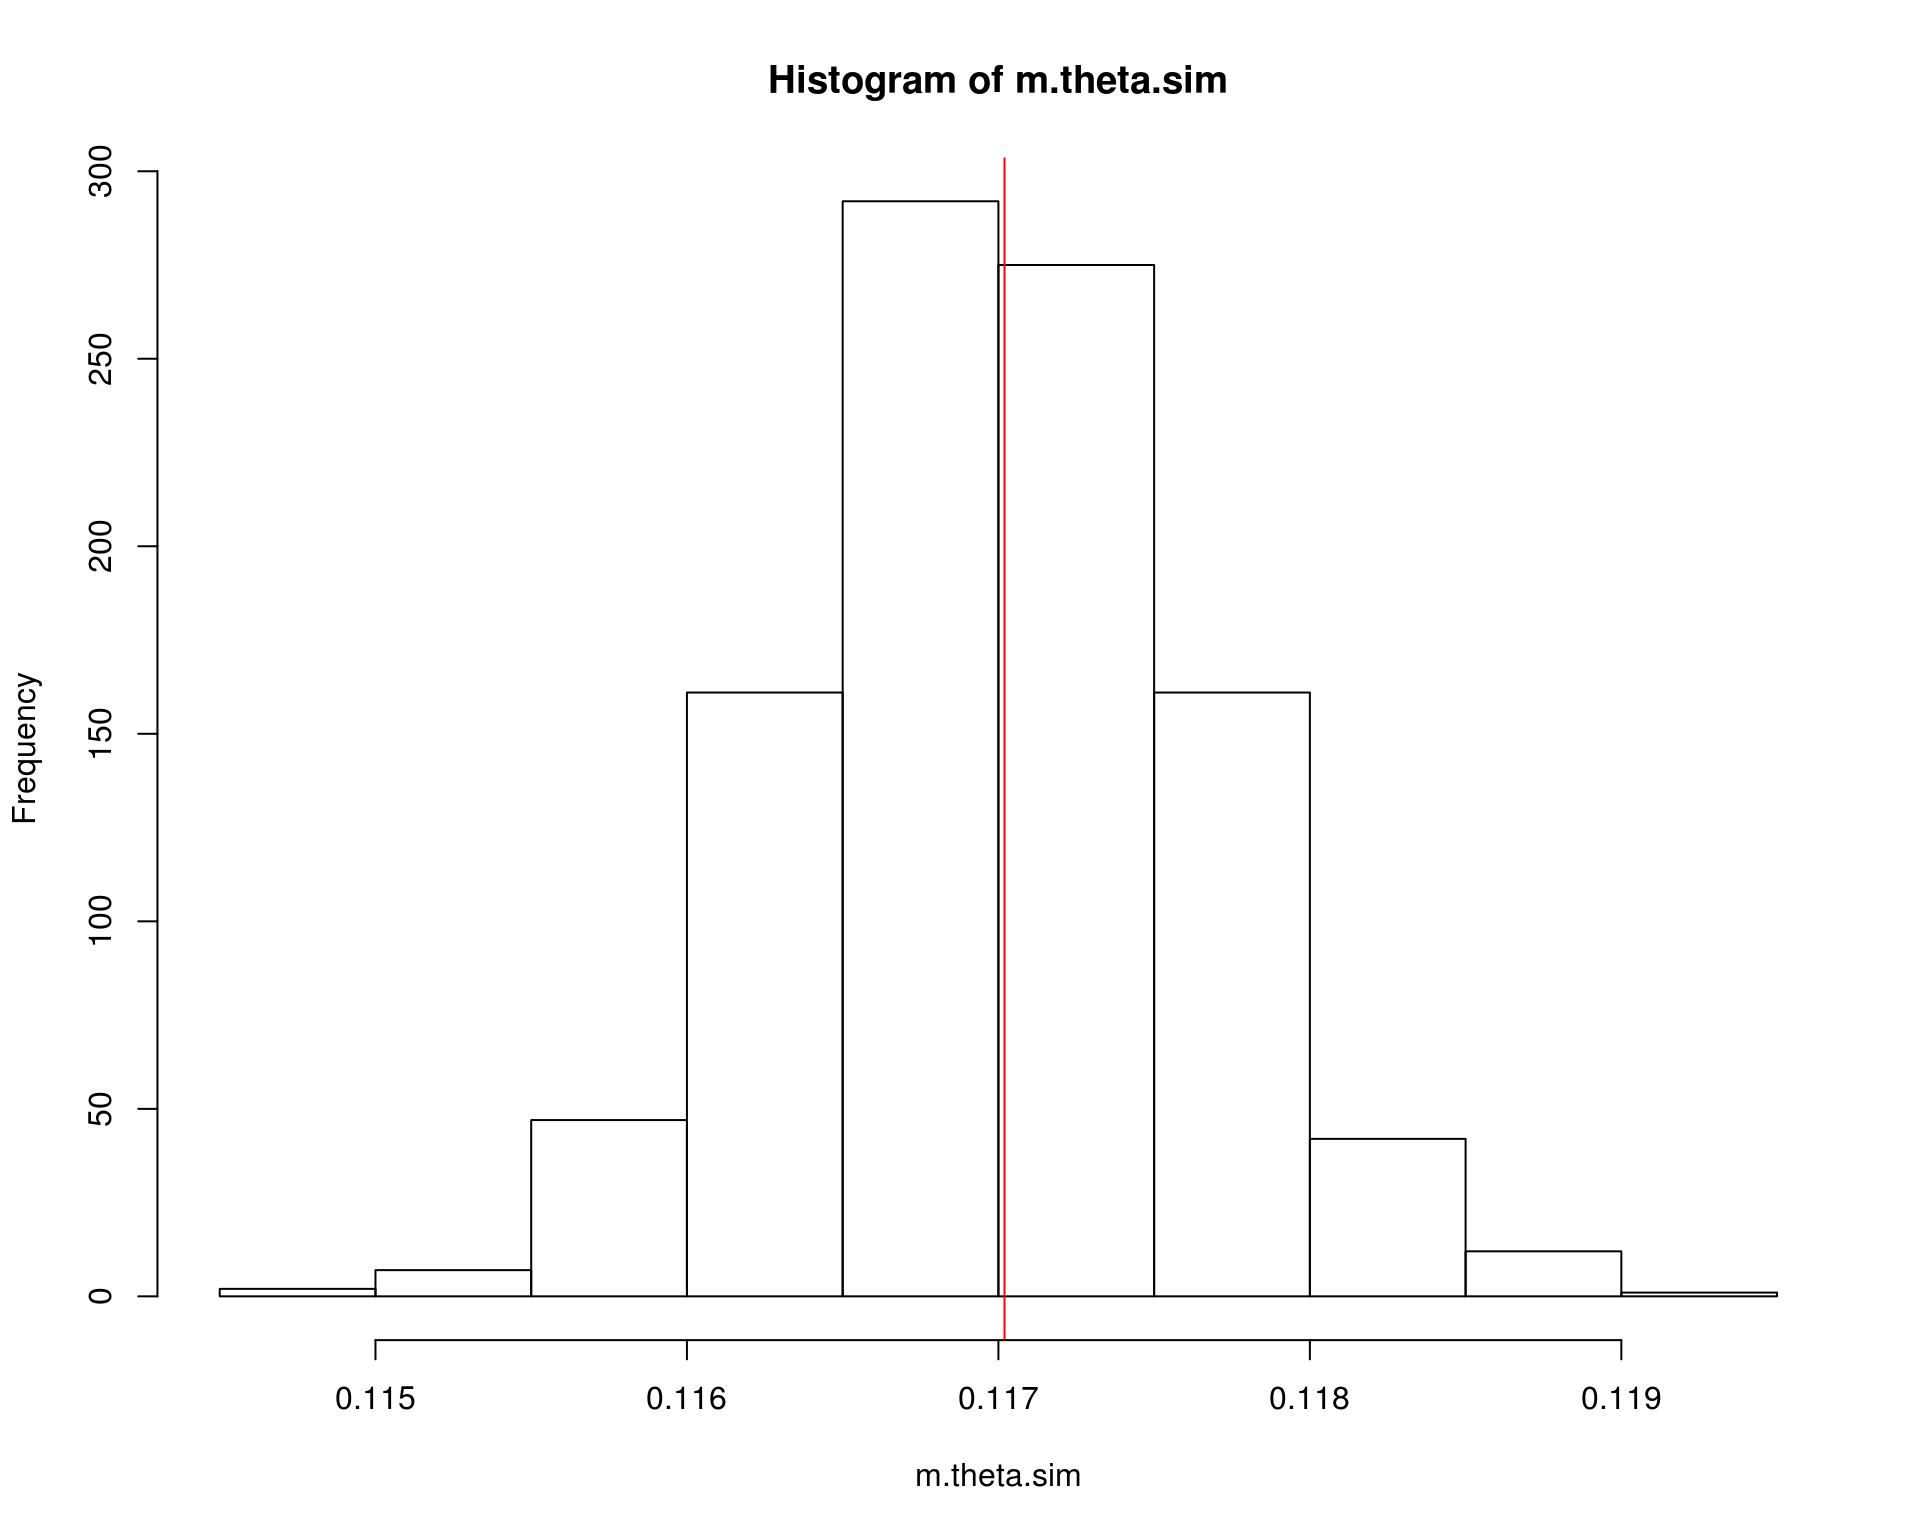
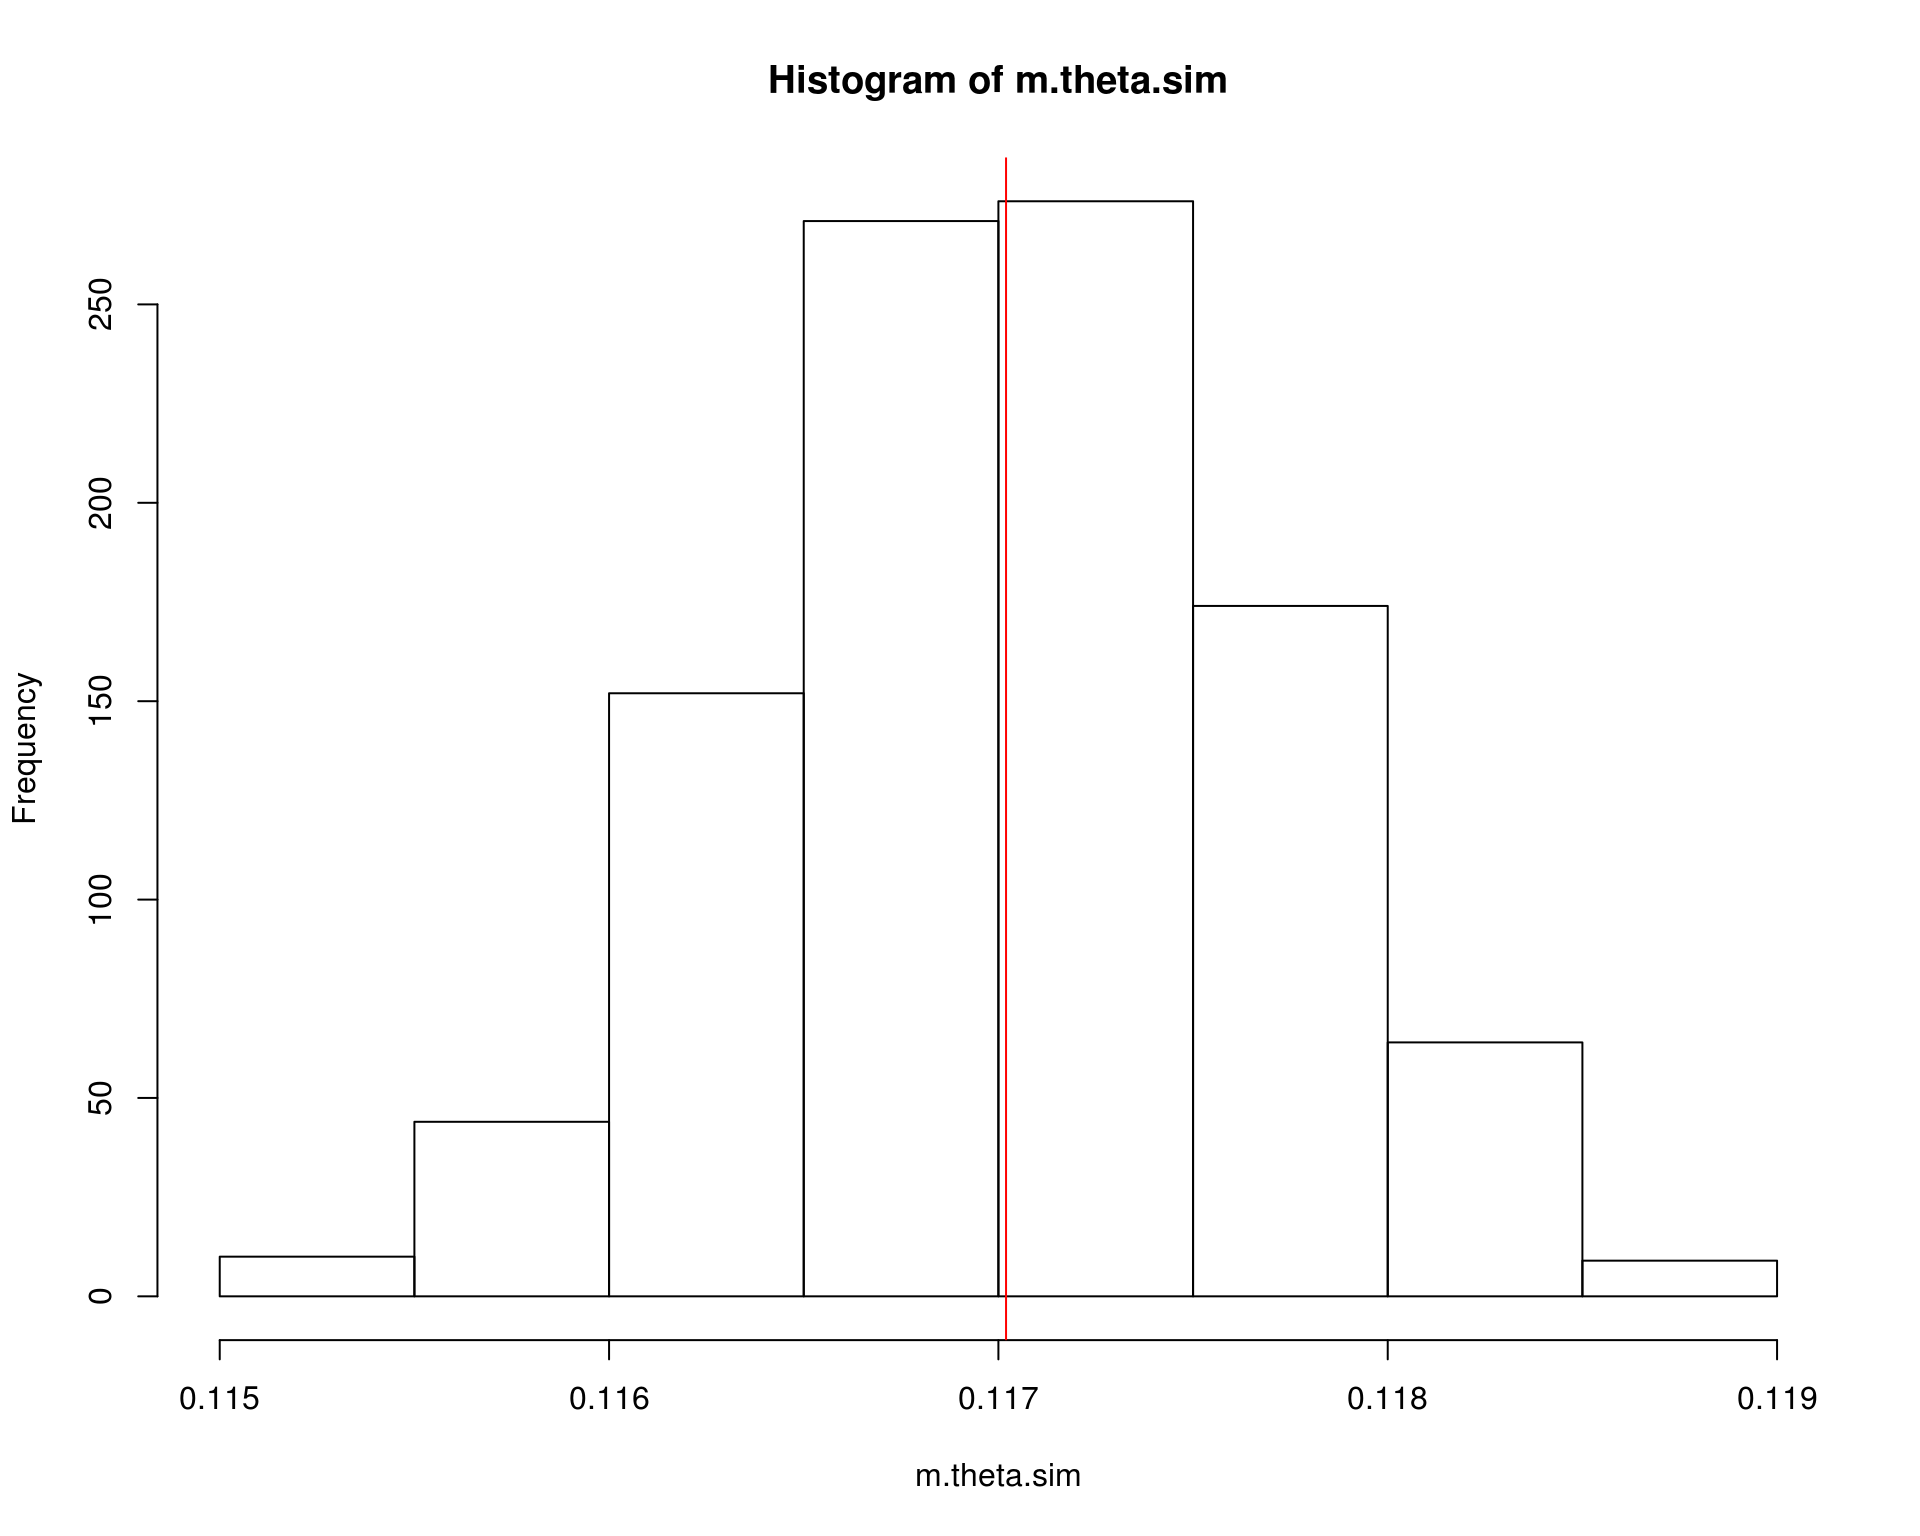
The site is alive.

diff --git a/MC_intro.html b/MC_intro.html
@@ -553,7 +553,7 @@ P(\lim_{n \to \infty} |\bar{X}_n - \mu| &lt; \epsilon) = 1
 <a class="sourceLine" id="cb1-5" title="5">theta.hat &lt;-<span class="st"> </span><span class="kw">exp</span>(<span class="op">-</span>x)</a>
 <a class="sourceLine" id="cb1-6" title="6"><span class="co">## Calcula a média</span></a>
 <a class="sourceLine" id="cb1-7" title="7">(m.theta.hat &lt;-<span class="st"> </span><span class="kw">sum</span>(theta.hat)<span class="op">/</span>m)</a>
-<a class="sourceLine" id="cb1-8" title="8"><span class="co"># [1] 0.6316201</span></a></code></pre></div>
+<a class="sourceLine" id="cb1-8" title="8"><span class="co"># [1] 0.6329482</span></a></code></pre></div>
 <p>Nesse caso, podemos obter a solução analítica e integração numérica no R para comparar as estimativas</p>
 <div class="sourceCode" id="cb2"><pre class="sourceCode r"><code class="sourceCode r"><a class="sourceLine" id="cb2-1" title="1"><span class="co">## Solução analítica</span></a>
 <a class="sourceLine" id="cb2-2" title="2">(theta &lt;-<span class="st"> </span><span class="dv">1</span> <span class="op">-</span><span class="st"> </span><span class="kw">exp</span>(<span class="op">-</span><span class="dv">1</span>))</a>
@@ -593,7 +593,7 @@ P(\lim_{n \to \infty} |\bar{X}_n - \mu| &lt; \epsilon) = 1
 <a class="sourceLine" id="cb3-6" title="6">theta.hat &lt;-<span class="st"> </span><span class="kw">exp</span>(<span class="op">-</span>x)</a>
 <a class="sourceLine" id="cb3-7" title="7"><span class="co">## Calcula a média * (b - a)</span></a>
 <a class="sourceLine" id="cb3-8" title="8">(m.theta.hat &lt;-<span class="st"> </span>(<span class="kw">sum</span>(theta.hat)<span class="op">/</span>m) <span class="op">*</span><span class="st"> </span>(b <span class="op">-</span><span class="st"> </span>a))</a>
-<a class="sourceLine" id="cb3-9" title="9"><span class="co"># [1] 0.1162404</span></a></code></pre></div>
+<a class="sourceLine" id="cb3-9" title="9"><span class="co"># [1] 0.1166628</span></a></code></pre></div>
 <p>Nesse caso, podemos obter a solução analítica e integração numérica no R para comparar as estimativas</p>
 <div class="sourceCode" id="cb4"><pre class="sourceCode r"><code class="sourceCode r"><a class="sourceLine" id="cb4-1" title="1"><span class="co">## Solução analítica</span></a>
 <a class="sourceLine" id="cb4-2" title="2">(theta &lt;-<span class="st"> </span><span class="kw">exp</span>(<span class="op">-</span><span class="dv">2</span>) <span class="op">-</span><span class="st"> </span><span class="kw">exp</span>(<span class="op">-</span><span class="dv">4</span>))</a>
@@ -614,7 +614,7 @@ P[X&gt;2] = \int_2^{\infty} e^{-x} dx
 <a class="sourceLine" id="cb5-5" title="5">theta.hat2 &lt;-<span class="st"> </span><span class="kw">exp</span>(<span class="op">-</span>x2)</a>
 <a class="sourceLine" id="cb5-6" title="6"><span class="co">## Calcula a média * (b - a)</span></a>
 <a class="sourceLine" id="cb5-7" title="7">(m.theta.hat2 &lt;-<span class="st"> </span>(<span class="kw">sum</span>(theta.hat2)<span class="op">/</span>m) <span class="op">*</span><span class="st"> </span>(<span class="fl">1e5</span> <span class="op">-</span><span class="st"> </span><span class="dv">2</span>))</a>
-<a class="sourceLine" id="cb5-8" title="8"><span class="co"># [1] 0.09192685</span></a>
+<a class="sourceLine" id="cb5-8" title="8"><span class="co"># [1] 6.162228e-09</span></a>
 <a class="sourceLine" id="cb5-9" title="9"><span class="co">## Solução analítica</span></a>
 <a class="sourceLine" id="cb5-10" title="10">(theta2 &lt;-<span class="st"> </span><span class="kw">exp</span>(<span class="op">-</span><span class="dv">2</span>) <span class="op">-</span><span class="st"> </span><span class="kw">exp</span>(<span class="op">-</span><span class="fl">1e5</span>))</a>
 <a class="sourceLine" id="cb5-11" title="11"><span class="co"># [1] 0.1353353</span></a>
@@ -635,17 +635,17 @@ P[X&gt;2] = \int_2^{\infty} e^{-x} dx
 \]</span></p>
 <p>Seguindo o exemplo anterior, vimos que a estimativa da integral é</p>
 <div class="sourceCode" id="cb6"><pre class="sourceCode r"><code class="sourceCode r"><a class="sourceLine" id="cb6-1" title="1">m.theta.hat</a>
-<a class="sourceLine" id="cb6-2" title="2"><span class="co"># [1] 0.1162404</span></a></code></pre></div>
+<a class="sourceLine" id="cb6-2" title="2"><span class="co"># [1] 0.1166628</span></a></code></pre></div>
 <p>Mas veja que existe uma distribuição de valores para compor esta estimativa média</p>
 <div class="sourceCode" id="cb7"><pre class="sourceCode r"><code class="sourceCode r"><a class="sourceLine" id="cb7-1" title="1"><span class="kw">hist</span>(theta.hat); <span class="kw">abline</span>(<span class="dt">v =</span> theta, <span class="dt">col =</span> <span class="dv">2</span>)</a></code></pre></div>
 <p><img src="figures/MC_intro/unnamed-chunk-9-1.png" width="80%" style="display: block; margin: auto;" /></p>
 <p>A variância relacionada ao estimador pode então ser calculada como</p>
 <div class="sourceCode" id="cb8"><pre class="sourceCode r"><code class="sourceCode r"><a class="sourceLine" id="cb8-1" title="1"><span class="co">## Variancia</span></a>
 <a class="sourceLine" id="cb8-2" title="2">(v.theta.hat &lt;-<span class="st"> </span><span class="kw">sum</span>((theta.hat <span class="op">-</span><span class="st"> </span>m.theta.hat)<span class="op">^</span><span class="dv">2</span>)<span class="op">/</span>m<span class="op">^</span><span class="dv">2</span>)</a>
-<a class="sourceLine" id="cb8-3" title="3"><span class="co"># [1] 4.429105e-07</span></a>
+<a class="sourceLine" id="cb8-3" title="3"><span class="co"># [1] 4.465068e-07</span></a>
 <a class="sourceLine" id="cb8-4" title="4"><span class="co">## Erro padrão</span></a>
 <a class="sourceLine" id="cb8-5" title="5">(se.theta.hat &lt;-<span class="st"> </span><span class="kw">sqrt</span>(v.theta.hat))</a>
-<a class="sourceLine" id="cb8-6" title="6"><span class="co"># [1] 0.0006655152</span></a></code></pre></div>
+<a class="sourceLine" id="cb8-6" title="6"><span class="co"># [1] 0.0006682116</span></a></code></pre></div>
 <p>Pelo Teorema do Limite Central, temos que</p>
 <p><span class="math display">\[
 \frac{\hat\theta - \text{E}(\hat\theta)}{\sqrt{\hat{V}(\hat\theta)}}
@@ -659,10 +659,10 @@ P[X&gt;2] = \int_2^{\infty} e^{-x} dx
 <p>Com esse resultado, podemos inclusive fornecer um intervalo de confiança associado à nossa estimativa</p>
 <div class="sourceCode" id="cb10"><pre class="sourceCode r"><code class="sourceCode r"><a class="sourceLine" id="cb10-1" title="1"><span class="co">## Media e veriancia</span></a>
 <a class="sourceLine" id="cb10-2" title="2"><span class="kw">c</span>(m.theta.hat, v.theta.hat)</a>
-<a class="sourceLine" id="cb10-3" title="3"><span class="co"># [1] 1.162404e-01 4.429105e-07</span></a>
+<a class="sourceLine" id="cb10-3" title="3"><span class="co"># [1] 1.166628e-01 4.465068e-07</span></a>
 <a class="sourceLine" id="cb10-4" title="4"><span class="co">## Intervalo de confiança (95%)</span></a>
 <a class="sourceLine" id="cb10-5" title="5"><span class="kw">c</span>(m.theta.hat <span class="op">-</span><span class="st"> </span><span class="fl">1.96</span> <span class="op">*</span><span class="st"> </span>se.theta.hat, m.theta.hat <span class="op">+</span><span class="st"> </span><span class="fl">1.96</span> <span class="op">*</span><span class="st"> </span>se.theta.hat)</a>
-<a class="sourceLine" id="cb10-6" title="6"><span class="co"># [1] 0.1149360 0.1175449</span></a></code></pre></div>
+<a class="sourceLine" id="cb10-6" title="6"><span class="co"># [1] 0.1153531 0.1179725</span></a></code></pre></div>
 <p>Veja que assintoticamente, i.e., conforme aumentamos o tamanho da amostra, o valor da integral se aproxima cada vez mais do valor verdadeiro (que nesse caso sabemos calcular analiticamente, apenas para comparação).</p>
 <div class="sourceCode" id="cb11"><pre class="sourceCode r"><code class="sourceCode r"><a class="sourceLine" id="cb11-1" title="1"><span class="co">## Simula a convergência para o verdadeiro valor conforme aumenta o</span></a>
 <a class="sourceLine" id="cb11-2" title="2"><span class="co">## tamanho da amostra</span></a>
